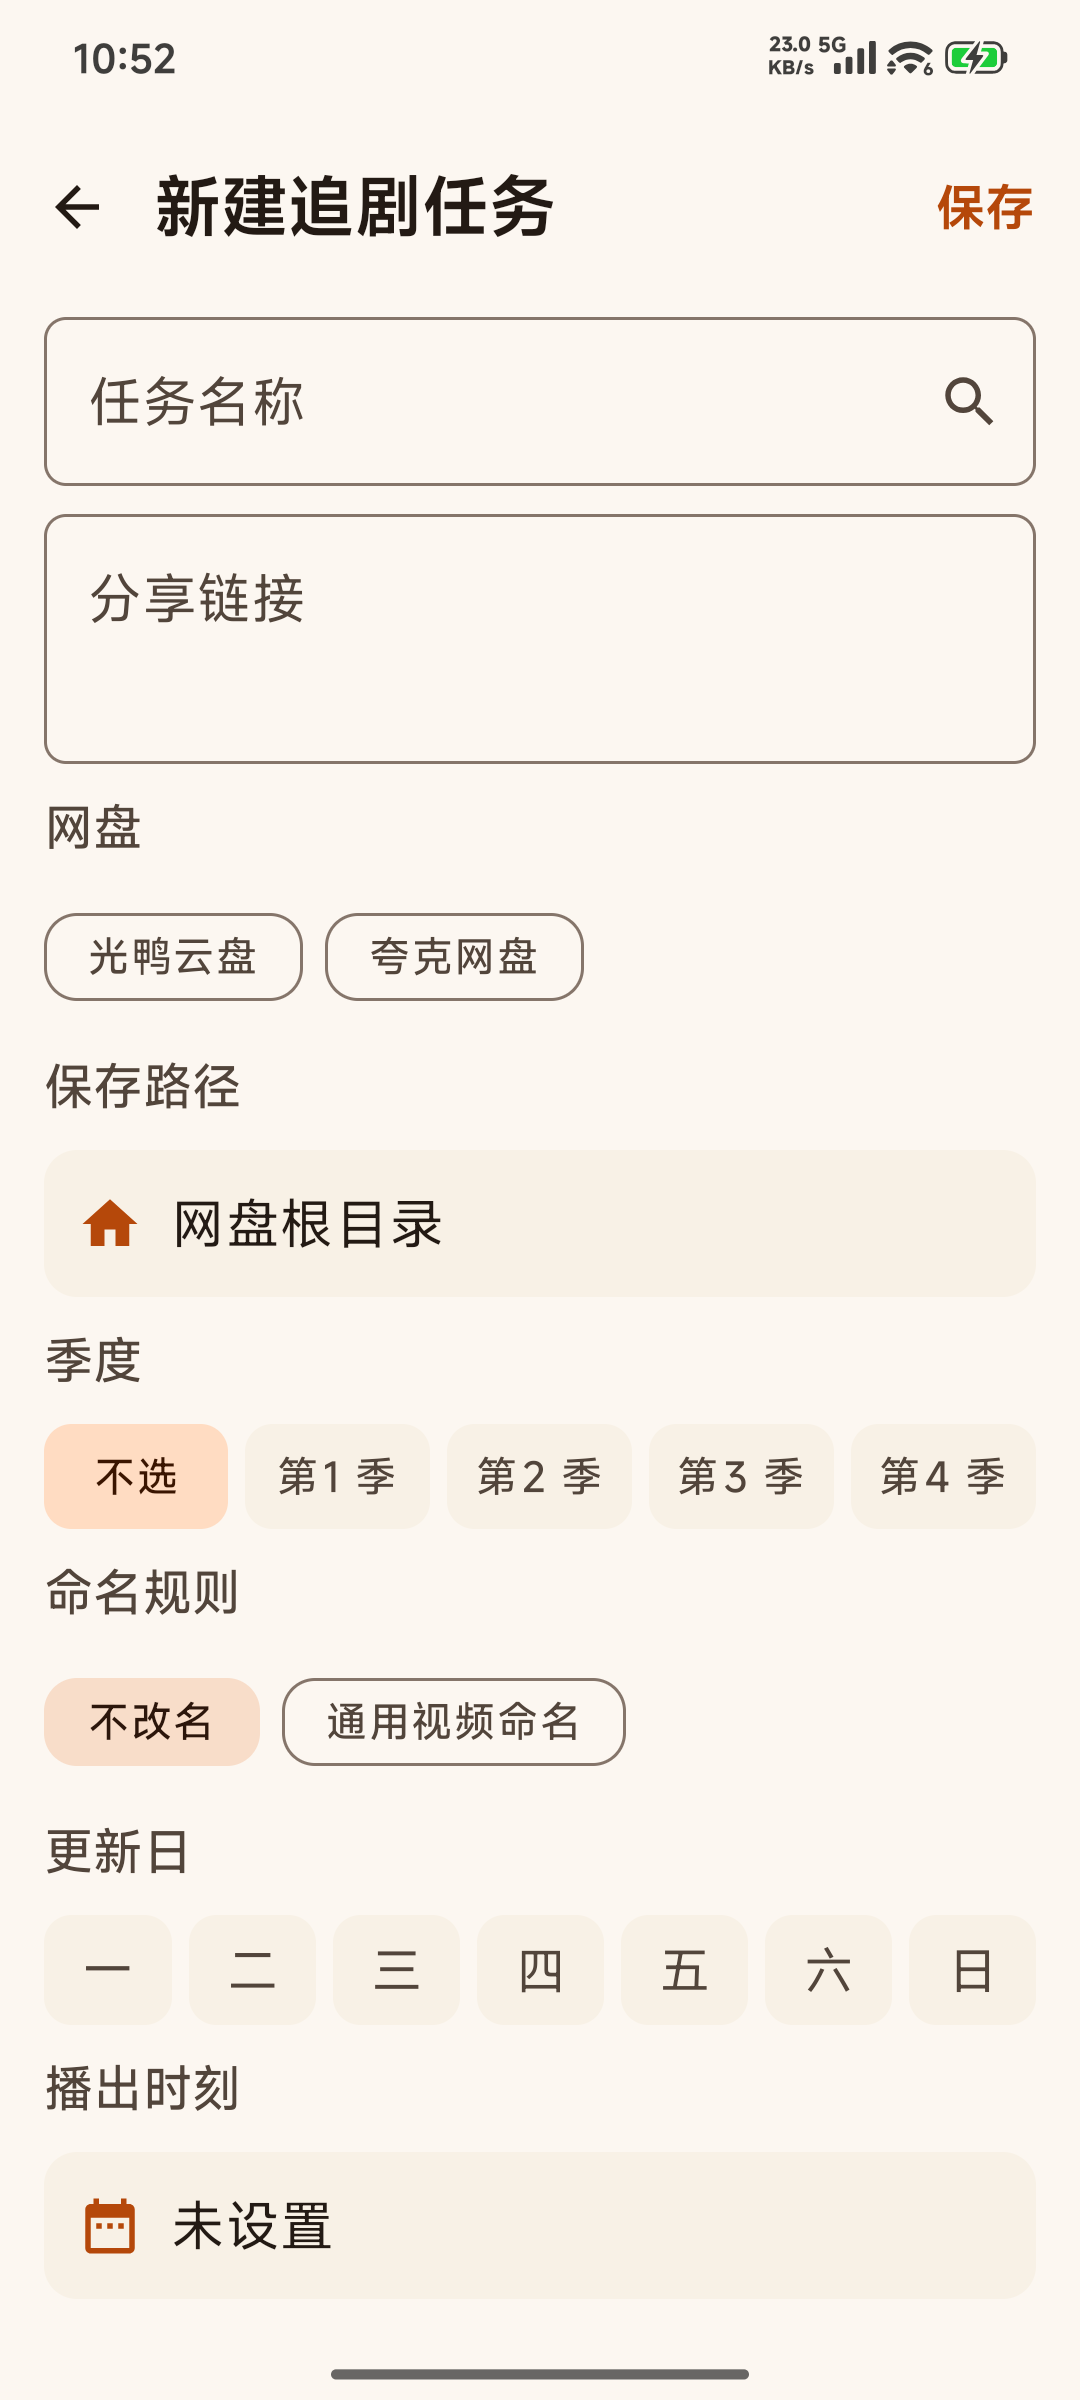
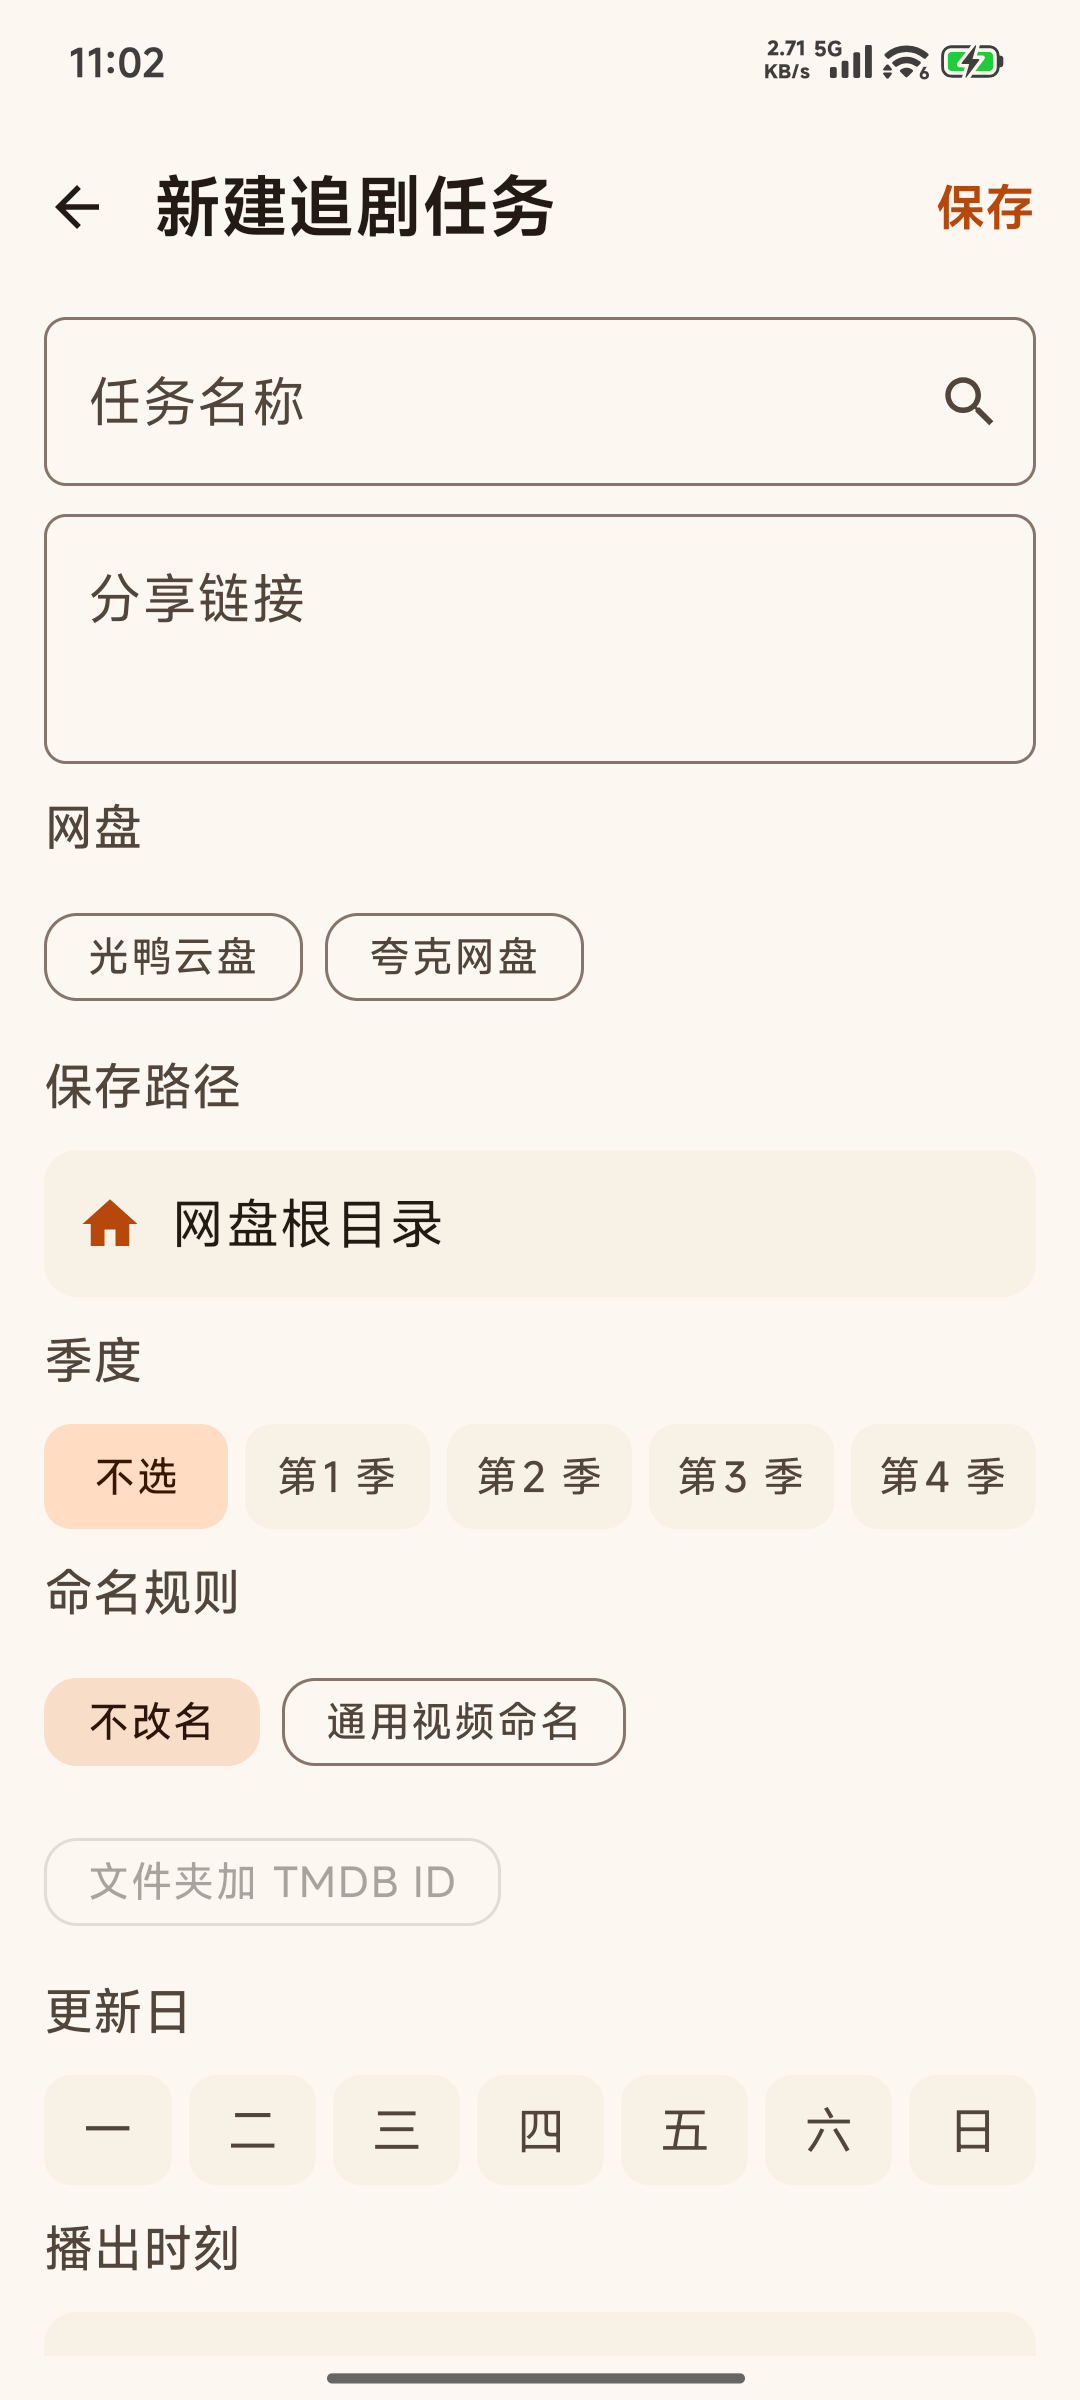
Stage 12: 关掉启动自动同步（改手动：卡片播放按钮 + 全部检测）；命名规则加「文件夹加 TMDB ID」；db v6

diff --git a/app/src/main/java/com/ashchan/cloudsaver/ui/tasks/NewTaskScreen.kt b/app/src/main/java/com/ashchan/cloudsaver/ui/tasks/NewTaskScreen.kt
@@ -88,6 +88,7 @@ fun NewTaskScreen(
     var saveFid by remember { mutableStateOf("0") }
     var savePathLabel by remember { mutableStateOf("网盘根目录") }
     var seasonNo by remember { mutableStateOf(0) }
+    var folderWithTmdbId by remember { mutableStateOf(false) }
     var ruleKey by remember { mutableStateOf("") }
     var tmdbId by remember { mutableStateOf("") }
     var tmdbTitle by remember { mutableStateOf("") }
@@ -143,6 +144,7 @@ fun NewTaskScreen(
                                         savePathLabel = savePathLabel,
                                         ruleKey = ruleKey,
                                         seasonNo = seasonNo,
+                                        folderWithTmdbId = folderWithTmdbId,
                                         driveOverride = drive,
                                     )
                                     onDone()
@@ -266,6 +268,17 @@ fun NewTaskScreen(
                         label = { Text(magic.name, style = MaterialTheme.typography.labelMedium) },
                     )
                 }
+            }
+            // 目录命名开关：勾了就是「剧名 tmdb-123」（单独一行，文字不换行）
+            Row {
+                FilterChip(
+                    selected = folderWithTmdbId,
+                    onClick = { folderWithTmdbId = !folderWithTmdbId },
+                    enabled = tmdbId.isNotBlank(),
+                    label = {
+                        Text("文件夹加 TMDB ID", style = MaterialTheme.typography.labelMedium)
+                    },
+                )
             }
 
             // 更新日：七个排一排

diff --git a/app/src/main/java/com/ashchan/cloudsaver/ui/tasks/TaskListScreen.kt b/app/src/main/java/com/ashchan/cloudsaver/ui/tasks/TaskListScreen.kt
@@ -22,6 +22,7 @@ import androidx.compose.material.icons.Icons
 import androidx.compose.material.icons.filled.Add
 import androidx.compose.material.icons.filled.Delete
 import androidx.compose.material.icons.filled.List
+import androidx.compose.material.icons.filled.PlayArrow
 import androidx.compose.material.icons.filled.Refresh
 import androidx.compose.material.icons.filled.Settings
 import androidx.compose.material3.AlertDialog
@@ -91,7 +92,6 @@ fun TaskListScreen(
     var pendingDelete by remember { mutableStateOf<TaskEntity?>(null) }
 
     // 打开 App 自动同步一轮（每个 ViewModel 生命周期一次）
-    LaunchedEffect(Unit) { viewModel.syncOnStartOnce() }
 
     // 调试/外部分享入口仍可直达新建页（openNewTask extra）
     LaunchedEffect(startWithNewTaskDialog) {
@@ -360,6 +360,12 @@ private fun TaskRow(
                         Spacer(Modifier.width(6.dp))
                         Text("同步中")
                     } else {
+                        Icon(
+                            Icons.Default.PlayArrow,
+                            contentDescription = null,
+                            modifier = Modifier.size(18.dp),
+                        )
+                        Spacer(Modifier.width(2.dp))
                         Text("检测转存")
                     }
                 }
@@ -487,3 +493,4 @@ private fun syncText(millis: Long): String {
     val fmt = SimpleDateFormat("MM/dd HH:mm", Locale.getDefault())
     return fmt.format(Date(millis))
 }
+

diff --git a/app/src/main/java/com/ashchan/cloudsaver/ui/tasks/TasksViewModel.kt b/app/src/main/java/com/ashchan/cloudsaver/ui/tasks/TasksViewModel.kt
@@ -63,7 +63,6 @@ class TasksViewModel(
     private val _progress = MutableStateFlow<String?>(null)
     val progress: StateFlow<String?> = _progress.asStateFlow()
 
-    private var autoSynced = false
 
     fun clearError() {
         _error.value = null
@@ -88,6 +87,7 @@ class TasksViewModel(
         savePathLabel: String = "网盘根目录",
         ruleKey: String = "",
         seasonNo: Int = 0,
+        folderWithTmdbId: Boolean = false,
         driveOverride: DriveType? = null,
     ) {
         val title = name.trim()
@@ -113,6 +113,7 @@ class TasksViewModel(
                         airTime = airTime.trim(),
                         ruleKey = ruleKey,
                         seasonNo = seasonNo,
+                        folderWithTmdbId = folderWithTmdbId,
                         updateMode = if (weekdays.isBlank()) {
                             TaskEntity.UPDATE_MODE_TMDB
                         } else {
@@ -202,13 +203,6 @@ class TasksViewModel(
         }
     }
 
-    /** App 打开时自动同步一轮（只跑一次） */
-    fun syncOnStartOnce() {
-        if (autoSynced) return
-        autoSynced = true
-        runAll(RunRecordEntity.TRIGGER_BACKGROUND)
-    }
-
     // ---------------- 内部 ----------------
 
     private suspend fun execute(task: TaskEntity, trigger: String) {
@@ -227,4 +221,6 @@ class TasksViewModel(
         }
     }
 }
+
+
 

diff --git a/app/src/main/java/com/ashchan/cloudsaver/data/db/AppDatabase.kt b/app/src/main/java/com/ashchan/cloudsaver/data/db/AppDatabase.kt
@@ -13,7 +13,7 @@ import androidx.sqlite.db.SupportSQLiteDatabase
  */
 @Database(
     entities = [TaskEntity::class, SnapshotEntity::class, RunRecordEntity::class],
-    version = 5,
+    version = 6,
     exportSchema = false,
 )
 abstract class AppDatabase : RoomDatabase() {
@@ -82,6 +82,19 @@ abstract class AppDatabase : RoomDatabase() {
             }
         }
 
+        /**
+         * v6：tasks 加 `folderWithTmdbId`（网盘文件夹名是否带 TMDB ID）。
+         *
+         * 默认 false = 只用剧名当文件夹名，老任务不受影响。
+         */
+        val MIGRATION_5_6 = object : Migration(5, 6) {
+            override fun migrate(db: SupportSQLiteDatabase) {
+                db.execSQL(
+                    "ALTER TABLE tasks ADD COLUMN folderWithTmdbId INTEGER NOT NULL DEFAULT 0"
+                )
+            }
+        }
+
         fun get(context: Context): AppDatabase =
             instance ?: synchronized(this) {
                 instance ?: Room.databaseBuilder(
@@ -93,6 +106,7 @@ abstract class AppDatabase : RoomDatabase() {
                     MIGRATION_2_3,
                     MIGRATION_3_4,
                     MIGRATION_4_5,
+                    MIGRATION_5_6,
                 ).build().also { instance = it }
             }
     }

diff --git a/app/src/main/java/com/ashchan/cloudsaver/transfer/TaskRunner.kt b/app/src/main/java/com/ashchan/cloudsaver/transfer/TaskRunner.kt
@@ -123,8 +123,10 @@ class TaskRunner(
 
         // 每个任务在自己的保存位置下建一个「剧名」目录：
         // 多剧混在同一层会让集数统计把整盘视频算作一个任务，必须隔离。
+        // 勾了「文件夹加 TMDB ID」时目录名变成「剧名 tmdb-12345」。
+        val folderName = taskNameOf(task)
         val nameFid = retryOnce("创建任务目录") {
-            adapter.ensureFolder(baseFid, task.name.trim())
+            adapter.ensureFolder(baseFid, folderName)
         }.getOrElse { baseFid }
 
         // 选了季度就再多一层 `Season N`；不选则视频直接平铺在剧名目录下
@@ -290,6 +292,16 @@ class TaskRunner(
                 "tv=$tvId season=$season latest=${it.latestEpisode} weekday=${it.weekday}",
             )
         }
+    }
+
+    /**
+     * 任务在网盘里的文件夹名。
+     * 勾了「文件夹加 TMDB ID」且绑定了 TMDB → 「剧名 tmdb-123」；否则就是剧名本身。
+     */
+    private fun taskNameOf(task: TaskEntity): String {
+        val base = task.name.trim()
+        val id = task.tmdbId
+        return if (task.folderWithTmdbId && id != null) "$base tmdb-$id" else base
     }
 
     /** 目标侧季目录名（选了季度才建） */

diff --git a/app/src/main/java/com/ashchan/cloudsaver/data/db/TaskEntity.kt b/app/src/main/java/com/ashchan/cloudsaver/data/db/TaskEntity.kt
@@ -65,6 +65,11 @@ data class TaskEntity(
      * 一部用「SxxExx」、另一部要「剧名.SxxEyy」，全局开关做不到。
      */
     val ruleKey: String = "",
+    /**
+     * 网盘文件夹名是否带 TMDB ID。
+     * true 且绑定了 TMDB 时，目录名是「剧名 tmdb-12345」，否则就是纯剧名。
+     */
+    val folderWithTmdbId: Boolean = false,
     val enabled: Boolean = true,
     val createdAt: Long = System.currentTimeMillis(),
     val updatedAt: Long = System.currentTimeMillis(),
